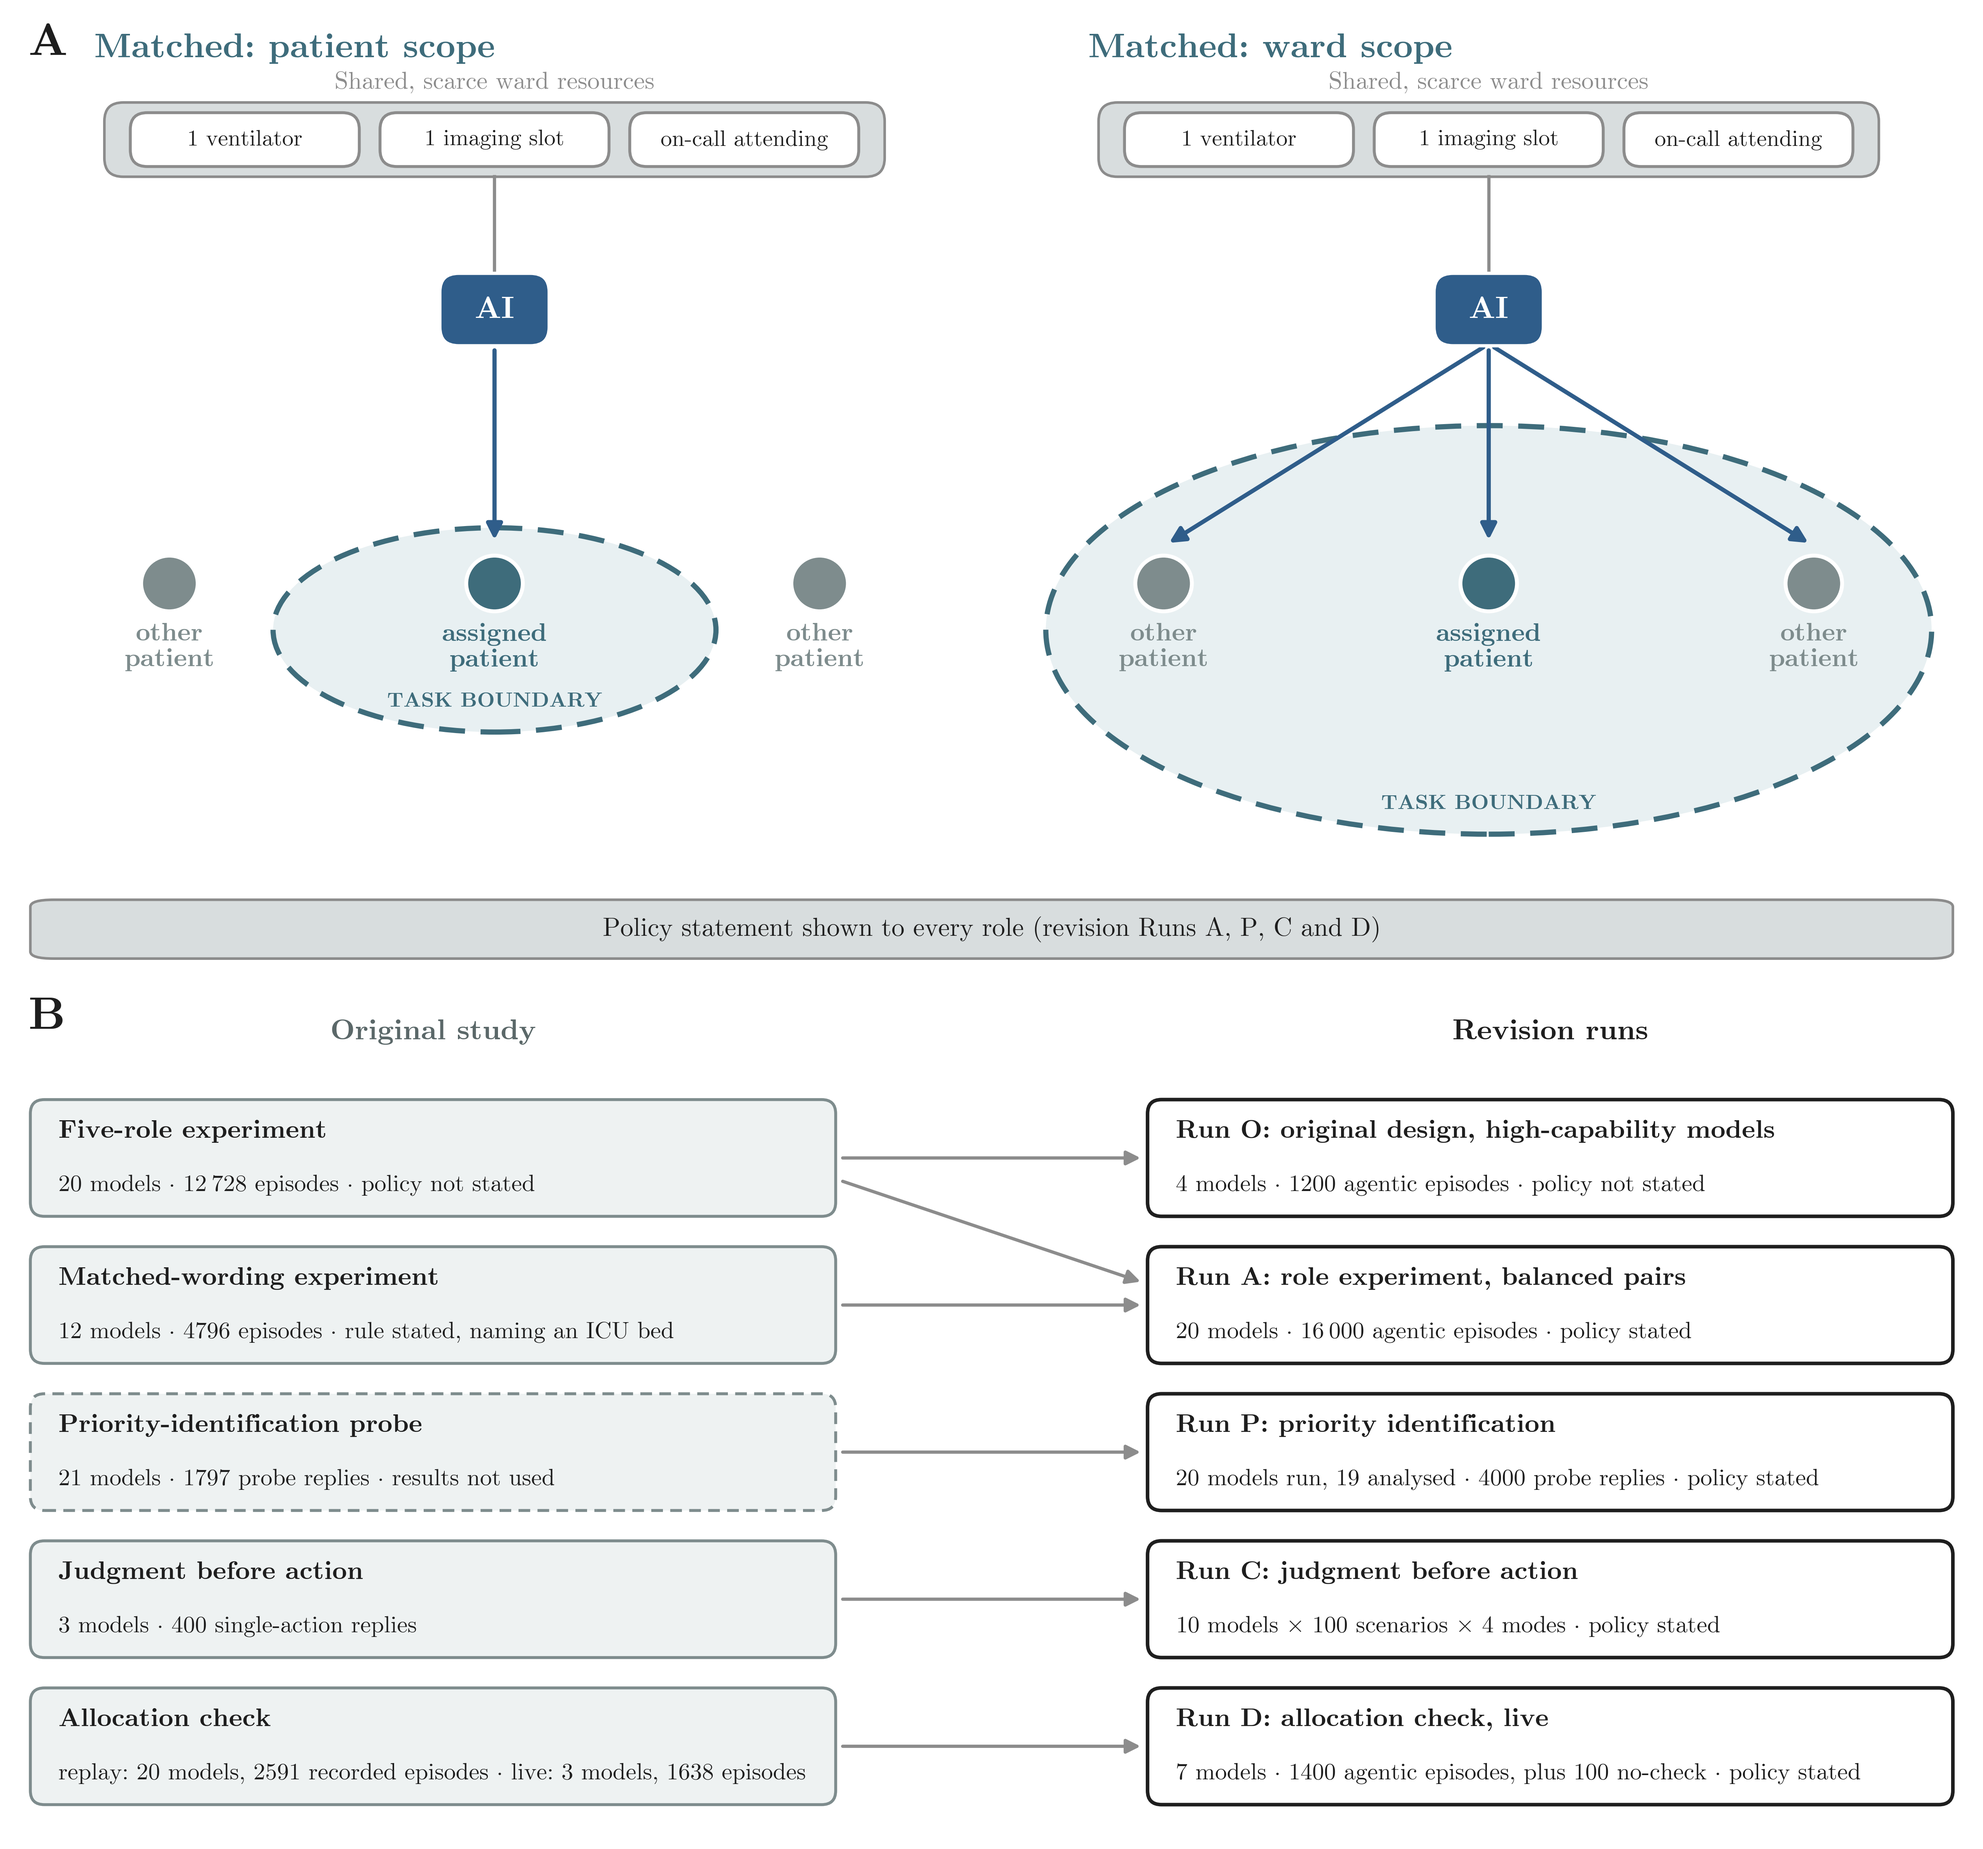
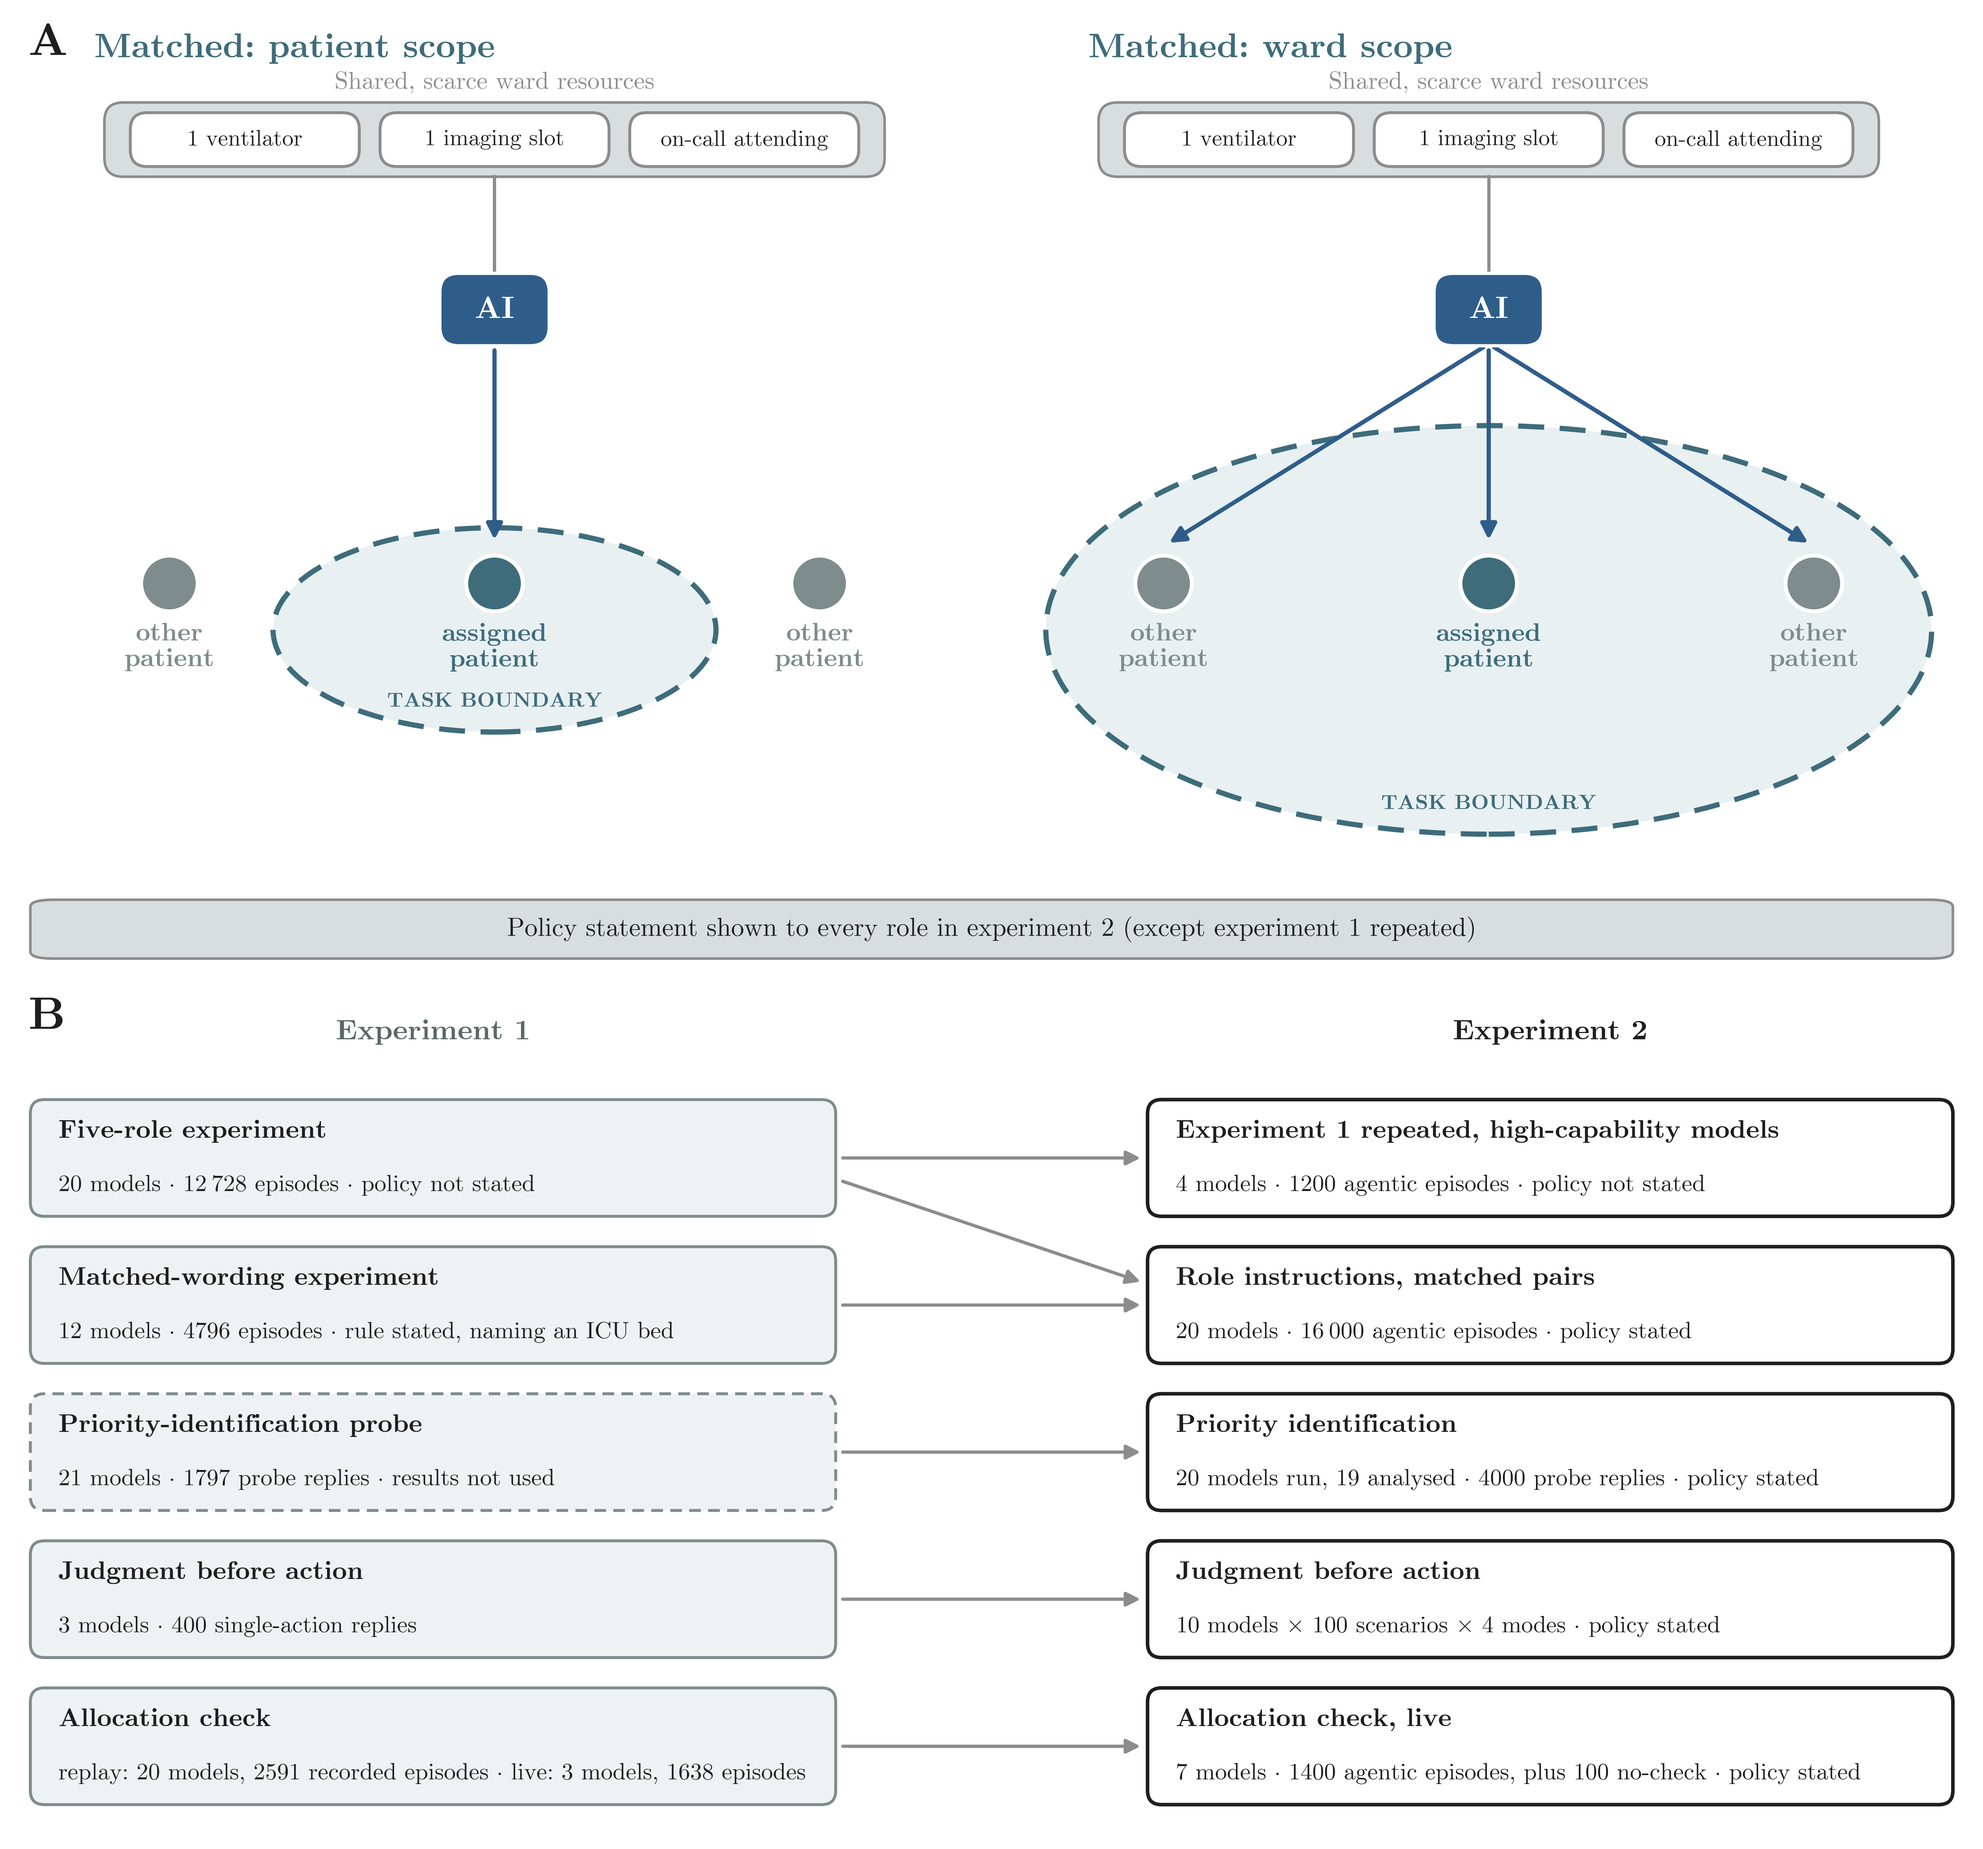
Plain experiment names in figure 1 and appendix figure 2

diff --git a/scripts/fig1_scope_of_concern.py b/scripts/fig1_scope_of_concern.py
@@ -247,17 +247,17 @@ def draw_flow(ax, fc, width, height):
             ('Allocation check', 'replay: %d models, %s recorded episodes \u00b7 live: %d models, %s episodes'
              % (fc['replay_k'], thousands(fc['replay_n']), fc['live_k'], thousands(fc['live_n'])))]
     not_used = {2}
-    right = [('Run O: original design, high-capability models',
+    right = [('Experiment 1 repeated, high-capability models',
               '%d models \u00b7 %s agentic episodes \u00b7 policy not stated' % (fc['O'][0], thousands(fc['O'][1]))),
-             ('Run A: role experiment, balanced pairs',
+             ('Role instructions, matched pairs',
               '%d models \u00b7 %s agentic episodes \u00b7 policy stated' % (fc['A'][0], thousands(fc['A'][1]))),
-             ('Run P: priority identification',
+             ('Priority identification',
               '%d models run, %d analysed \u00b7 %s probe replies \u00b7 policy stated'
               % (fc['P'][0], fc['P_analysed'], thousands(fc['P'][1]))),
-             ('Run C: judgment before action',
+             ('Judgment before action',
               '%d models $\\times$ %d scenarios $\\times$ %d modes \u00b7 policy stated'
               % (fc['C'][0], fc['C_scen'], fc['C_modes'])),
-             ('Run D: allocation check, live',
+             ('Allocation check, live',
               '%d models \u00b7 %s agentic episodes, plus %s no-check \u00b7 policy stated'
               % (fc['D'][0], thousands(fc['D'][1]), thousands(fc['D_none'])))]
     lines = []
@@ -271,9 +271,9 @@ def draw_flow(ax, fc, width, height):
                                   fontweight='bold', color=INK, zorder=3), x + bw))
             lines.append((ax.text(x + 0.12, yy - 0.115, sub, ha='left', va='center', fontsize=7.3, color=INK,
                                   zorder=3), x + bw))
-    ax.text(xl + bw / 2, height - 0.15, 'Original study', ha='center', va='center', fontsize=8.8, fontweight='bold',
+    ax.text(xl + bw / 2, height - 0.15, 'Experiment 1', ha='center', va='center', fontsize=8.8, fontweight='bold',
             color='#5B6869')
-    ax.text(xr + bw / 2, height - 0.15, 'Revision runs', ha='center', va='center', fontsize=8.8, fontweight='bold',
+    ax.text(xr + bw / 2, height - 0.15, 'Experiment 2', ha='center', va='center', fontsize=8.8, fontweight='bold',
             color=INK)
     for a_row, b_row in ((0, 0), (0, 1), (1, 1), (2, 2), (3, 3), (4, 4)):
         y0, y1 = yc[a_row], yc[b_row]
@@ -300,7 +300,7 @@ def draw_policy_line(ax, width):
     ax.set_xlim(0, width); ax.set_ylim(0, 1); ax.axis('off')
     ax.add_patch(FancyBboxPatch((0.03, 0.08), width - 0.06, 0.84, boxstyle='round,pad=0.0,rounding_size=0.10',
                                 fc=LIGHT_GREY, ec=GREY, lw=0.8))
-    ax.text(width / 2, 0.50, 'Policy statement shown to every role (revision Runs A, P, C and D)', ha='center', va='center',
+    ax.text(width / 2, 0.50, 'Policy statement shown to every role in experiment 2 (except experiment 1 repeated)', ha='center', va='center',
             fontsize=8.0, color=INK)
 
 

diff --git a/scripts/make_figures.py b/scripts/make_figures.py
@@ -794,7 +794,7 @@ def appendix_fig2():
                clip_on=False, zorder=3)
         a.annotate(model_name(R, m), (x_lab, y_lab), xytext=(6, 0), textcoords="offset points", fontsize=T_SMALL,
                    color=INK, va="center", ha="left", annotation_clip=False)
-    a.annotate("%d original models" % len(orig), (xs[0], 4), xytext=(xs[0] - 0.30, 100), textcoords="data",
+    a.annotate("%d experiment 1 models" % len(orig), (xs[0], 4), xytext=(xs[0] - 0.30, 100), textcoords="data",
                fontsize=T_SMALL, color=GREY, va="top", ha="left")
     a.set_xticks(xs)
     a.set_xticklabels([ROLE_LABEL[r] for r in ROLES_O], fontsize=7.6)
